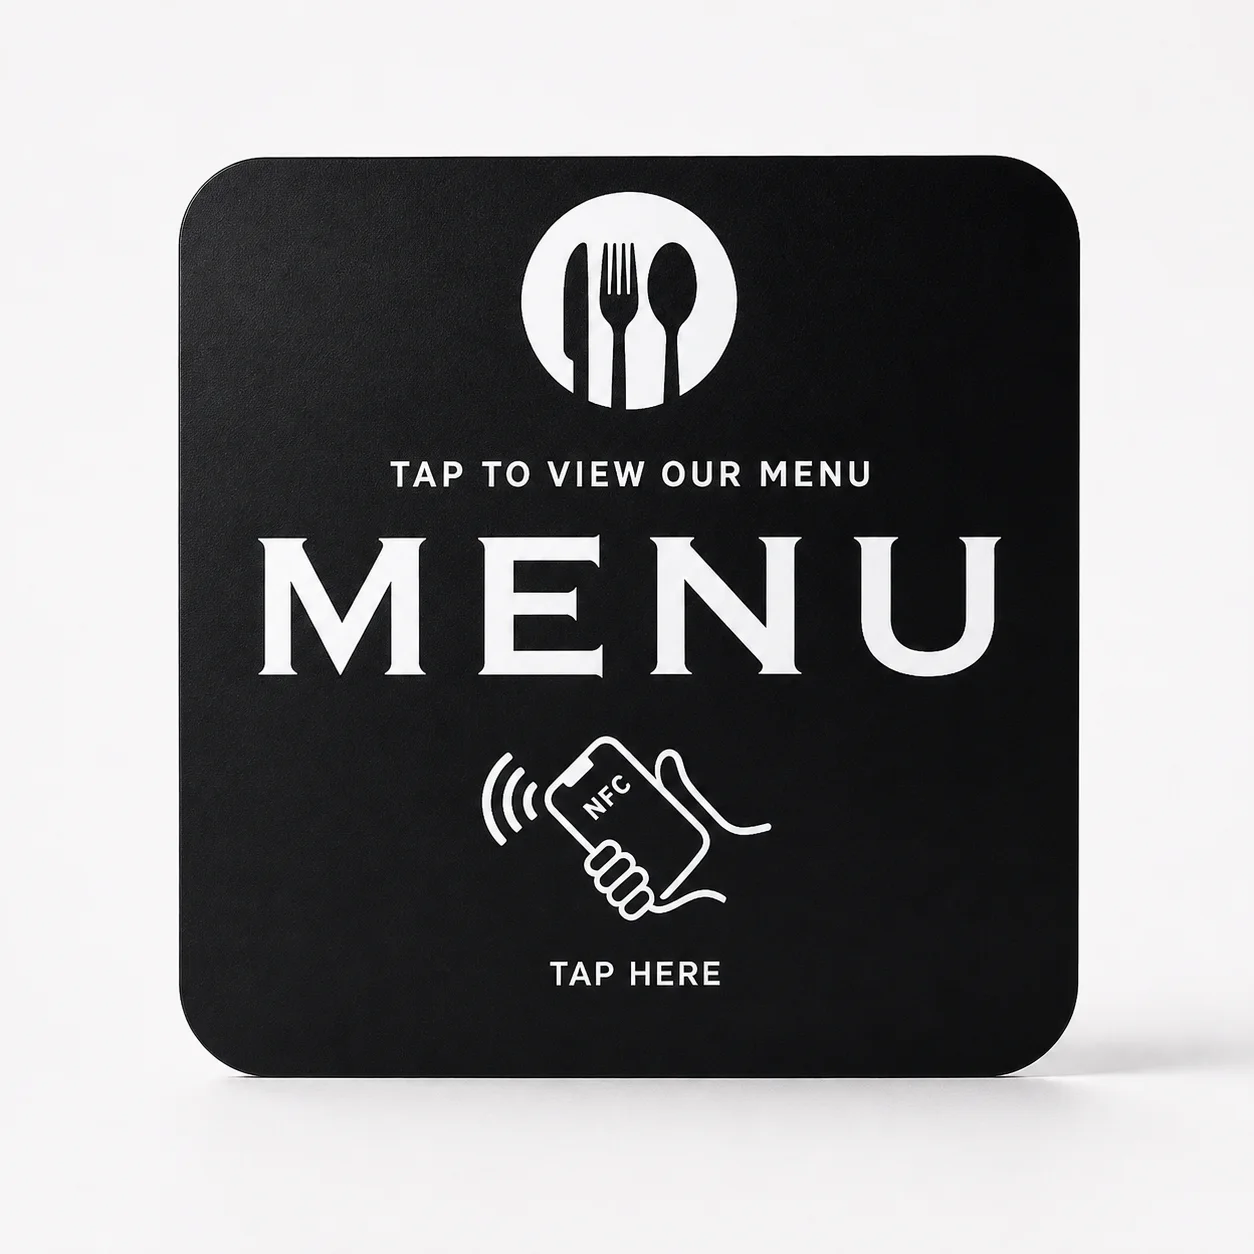
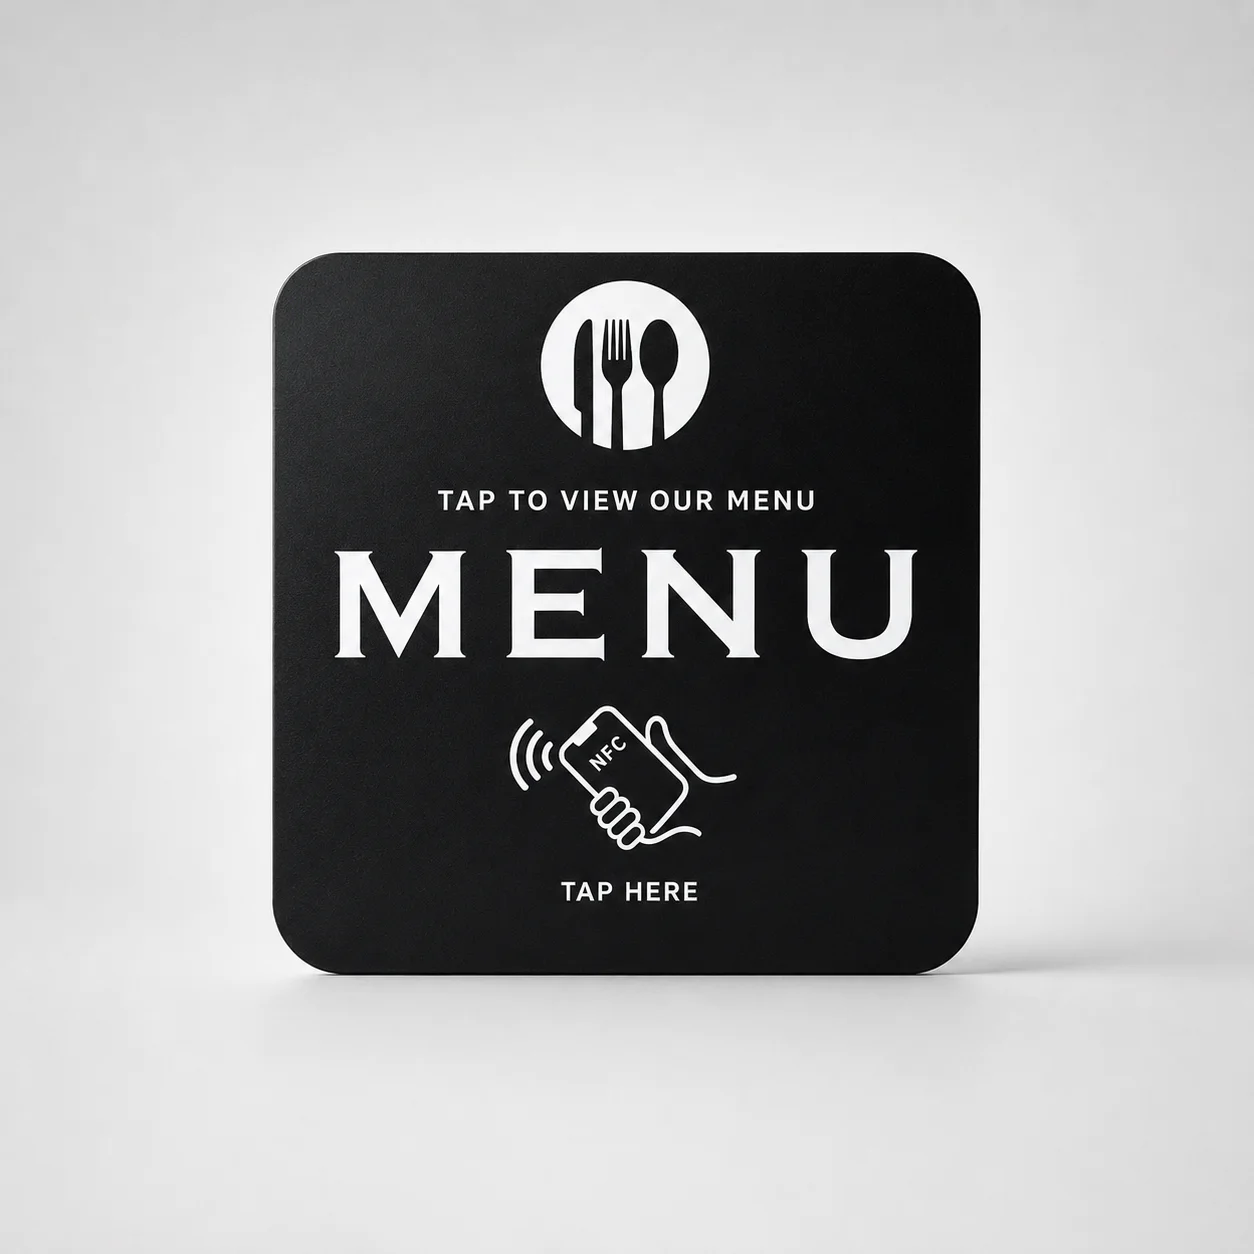
feat: refresh normalized NFC product assets

diff --git a/tests/unit/nfc-asset-import.test.ts b/tests/unit/nfc-asset-import.test.ts
@@ -30,18 +30,26 @@ afterEach(async () => {
 describe("NFC catalogue asset importer", () => {
   it("maps every supplied source to a stable public filename", () => {
     expect(SOURCE_TO_OUTPUT).toEqual({
-      "All Card Types.png": "all-products.webp",
-      "Bookiing selve designed blue square.png": "booking-custom-blue.webp",
-      "Google Review Circle Black.png": "review-round-black.webp",
-      "Google Review Circle White.png": "review-round-white.webp",
-      "Google Review Square Blue.png": "review-square-blue.webp",
-      "Google review stand white.png": "review-stand-white.webp",
-      "google selfe designed black circle.png":
+      "assets/nfc-products/source/nfc-product-range-overview.png":
+        "all-products.webp",
+      "assets/nfc-products/source/nfc-booking-custom-square-blue.png":
+        "booking-custom-blue.webp",
+      "assets/nfc-products/source/nfc-google-review-round-black.png":
+        "review-round-black.webp",
+      "assets/nfc-products/source/nfc-google-review-round-white.png":
+        "review-round-white.webp",
+      "assets/nfc-products/source/nfc-google-review-square-blue.png":
+        "review-square-blue.webp",
+      "assets/nfc-products/source/nfc-google-review-stand-white.png":
+        "review-stand-white.webp",
+      "assets/nfc-products/source/nfc-google-review-personalized-round-black.png":
         "review-personalized-black.webp",
-      "Menu Circle Black.png": "menu-round-black.webp",
-      "Menu selfe designed white circle.png":
+      "assets/nfc-products/source/nfc-menu-round-black.png":
+        "menu-round-black.webp",
+      "assets/nfc-products/source/nfc-menu-personalized-round-white.png":
         "menu-personalized-white.webp",
-      "Menu Square Black.png": "menu-square-black.webp",
+      "assets/nfc-products/source/nfc-menu-square-black.png":
+        "menu-square-black.webp",
     });
   });
 
